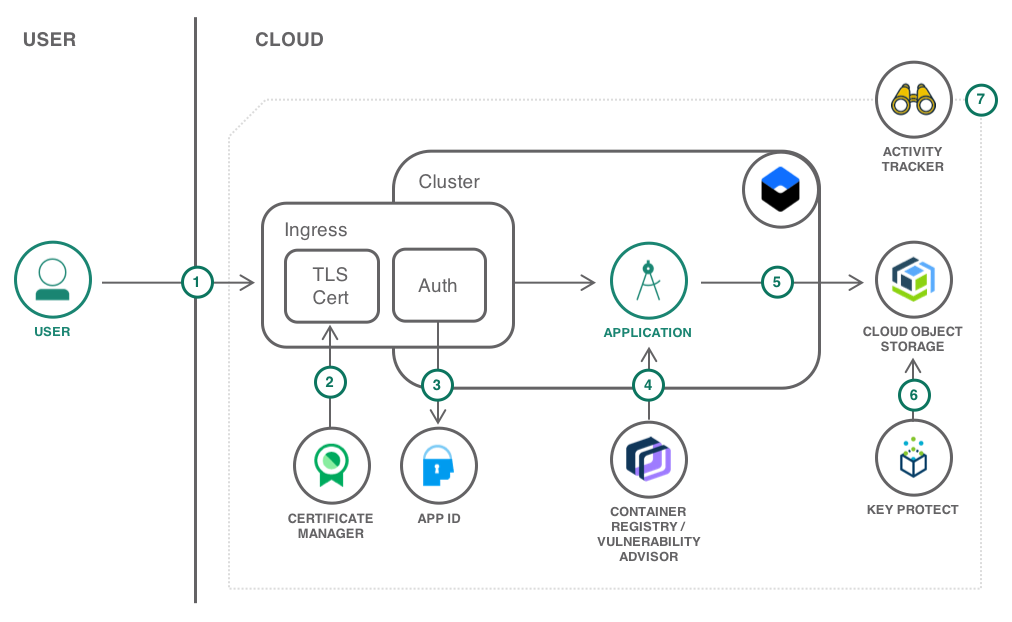
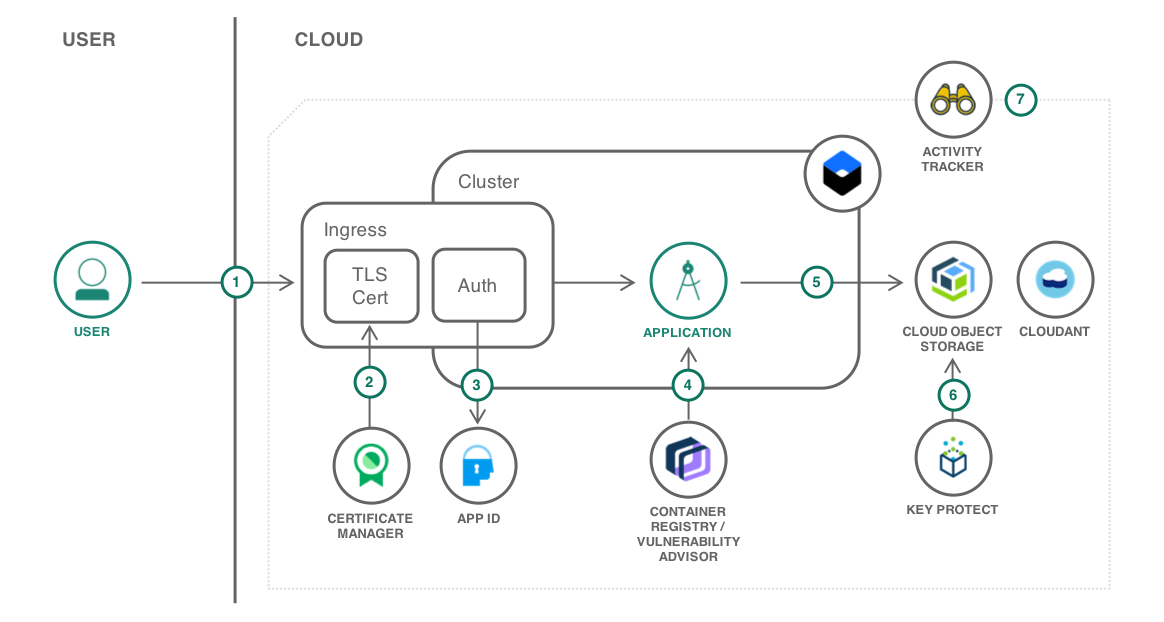
will need more iterations to find the right flow

diff --git a/data-encryption-security.md b/data-encryption-security.md
@@ -25,7 +25,7 @@ lastupdated: "2018-08-02"
 
 * Encrypt bucket files with your own encryption keys
 * Require users to authenticate before accessing an application
-* Manage the lifecycle of SSL certificates centrally
+* Manage the life cycle of encryption keys and SSL certificates centrally
 
 ## Services used
 {: #services}
@@ -64,24 +64,83 @@ The tutorial features an app that enables groups of users to upload files to a c
 {: #prereqs}
 
 * [Install all the necessary command line (CLI) tools by following](https://console.bluemix.net/docs/cli/index.html#overview)
-
+* Identify a region, an organization, a space and a resource group where you will deploy the application and its resources.
+  
 ## Create services
-{: setup}
+{: #setup}
 
-rough outline
-* Prepare org and space
-* Deploy Activity Tracker (no config necessary..?)
-* create K8S cluster, takes a while...
+### Capture user and application interactions 
+{: #activity-tracker }
+
+what is activity tracker, what does it bring
+
+<!-- * Deploy Activity Tracker (no config necessary..?) -->
+
+1. Go in the catalog and create an instance of [{{site.data.keyword.cloudaccesstrailshort}}](https://console.bluemix.net/catalog/services/activity-tracker)
+
+### Use your own encryption keys
+
+<!--
 * Deploy Key Protect
 * create your own key (how?), import as root key into KP
-* deploy COS (no config needed?)
-* deploy Cloudant
-* deploy App ID, config login page
+-->
+
+1. Create an instance of [{{site.data.keyword.keymanagementserviceshort}}](https://console.bluemix.net/catalog/services/kms)
+   * Set the name to **secure-file-storage-kp**
+   * Select the resource group where to create the service instance
+1. Under **Manage**, add a new key. This key will be used to encrypt the storage bucket content.
+   * Set the name to **secure-file-storage-bucket**
+   * Set the key type to **Root key**
+   * Then **Generate key**
+
+### Setup storage for user files
+
+The application stores the user files in a {{site.data.keyword.cos_short}} bucket and maintain a mapping between the files and the users in a {{site.data.keyword.cloudant_short_notm}} database.
+
+#### A bucket for the content
+
+<!-- * deploy COS (no config needed?) -->
+1. Create an instance of [{{site.data.keyword.cos_short}}](https://console.bluemix.net/catalog/services/cloud-object-storage)
+   * Set the **name** to **secure-file-storage-cos**
+   * Use the same **resource group** as for the previous services
+
+Give COS the right to read Key Protect keys:
+1. Open your IBM Cloud dashboard.
+1. From the menu bar, click Manage > Account > Users.
+1. In the side navigation, click Identity & Access > Authorizations.
+1. Click Create authorization.
+1. In the Source service menu, select Cloud Object Storage.
+1. In the Source service instance menu, select the Cloud Object Storage service instance previously created.
+1. In the Target service menu, select IBM Key Protect.
+1. In the Target service instance menu, select the service instance to authorize.
+1. Enable the Reader role.
+1. Click Authorize.
+
+#### A database to store the mapping between users and their files
+
+<!-- * deploy Cloudant -->
+1. Create an instance of [{{site.data.keyword.cloudant_short_notm}}](https://console.bluemix.net/catalog/services/cloudantNoSQLDB)
+   * Set the **name** to **secure-file-storage-db**
+   * Set the region
+   * Use the same **resource group** as for the previous services
+   * Set **Available authentication methods** to **Use only IAM**
+
+### Authenticate users
+
+<!-- * deploy App ID, config login page -->
+1. Create an instance of [{{site.data.keyword.appid_short}}](https://console.bluemix.net/catalog/services/AppID)
+   * Set the **name** to **secure-file-storage-appid**
+   * Use the same **region** and **resource group** as for the previous services
+
+## Deploy the app
+
+* create K8S cluster, takes a while...
 * git clone the repo
 * configure and push app: how much config can be done automatically? do this as container, push to registry, use vulnerability advisor as part of CR
 * configure App ID, set redirect page (could be don from within code)
-* optional: custom domain, deploy CM, deploy cert to cluster, config ingress
+* optional: custom domain, deploy CM, deploy cert to cluster, config ingress -->
 
+<!-- ## Misc
 
 In this section, you will create the services required to ...
 
@@ -133,14 +192,9 @@ In this section, you will create the services required to ...
     ```bash
     ibmcloud resource service-instance-create SKAAppID appid graduated-tier REGION
     ```
-    {: pre}
+    {: pre} -->
 
-
-## Configure Services
-
-
-
-## Solution Specific Section
+<!-- ## Solution Specific Section
 {: #section_one}
 
 Introductory statement that overviews the section
@@ -168,20 +222,20 @@ prepare the local cluster environment
 5. Step 1 Click **This** and enter your name.
 
   This is a tip.
-  {:tip}
-
-
-## Another Solution Specific Section
-{: #section_two}
-
-Introductory statement that overviews the section
-
-### Sub section
+  {:tip} -->
 
 ## Remove resources
 {:removeresources}
 
 Steps to take to remove the resources created in this tutorial
+
+* Delete Kubernetes service
+* Delete App ID
+* Delete Cloudant
+* Delete Cloud Object Storage
+* Delete Certificate Manager
+* Delete Key Protect
+* Delete Activity Tracker
 
 ## Expand the tutorial
 
